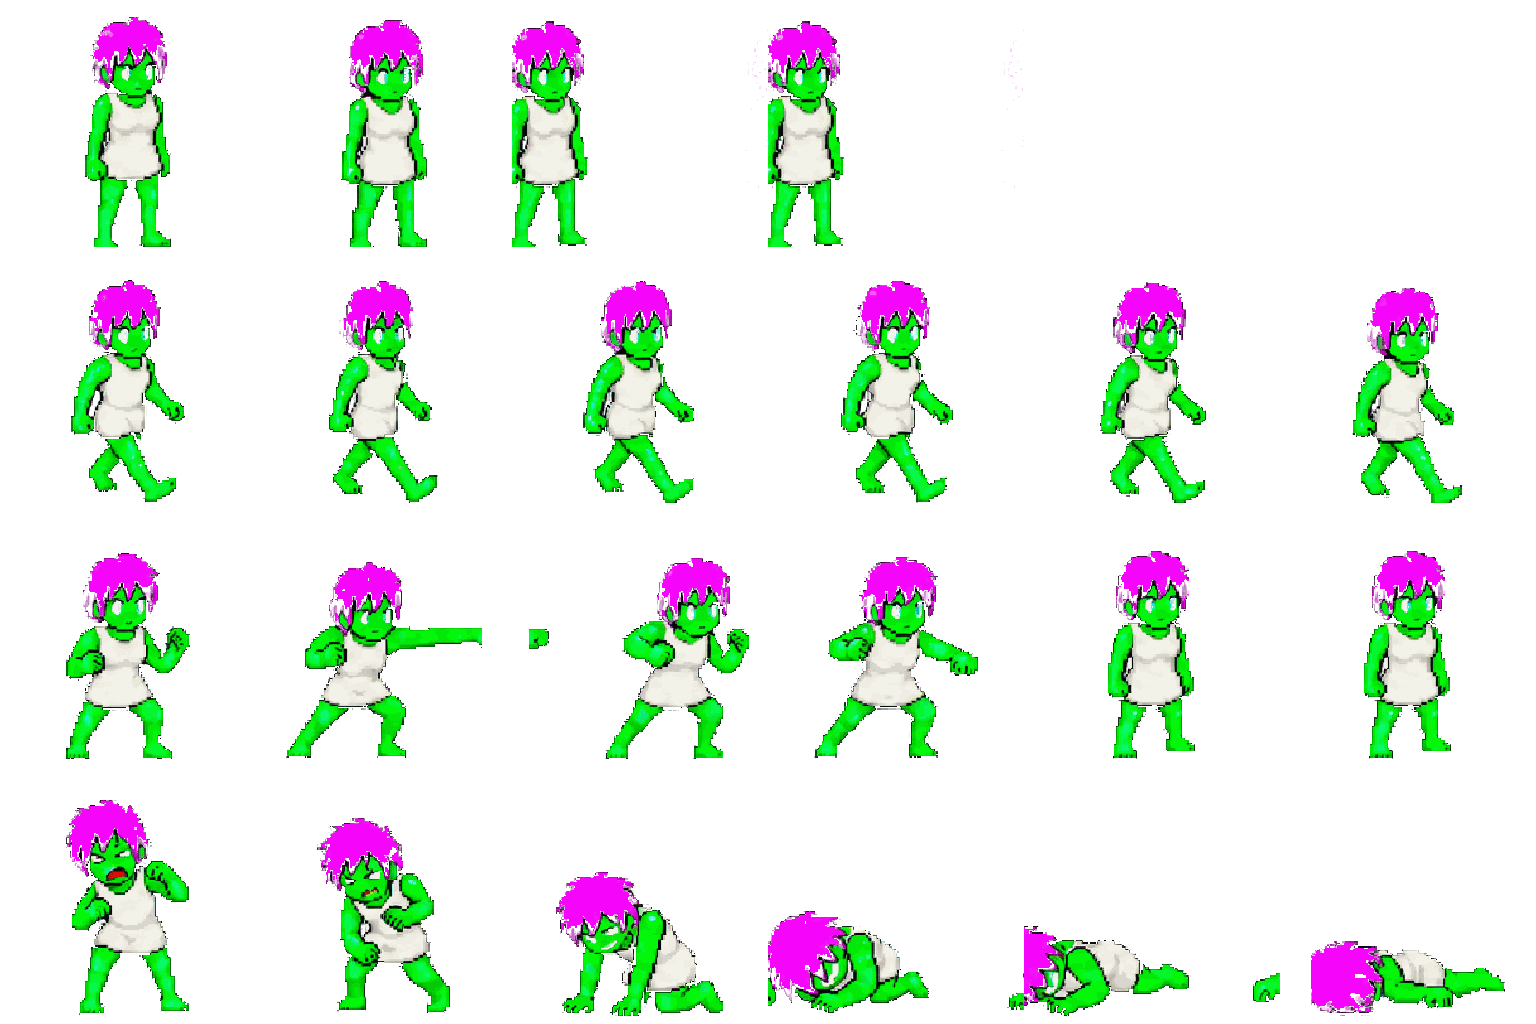
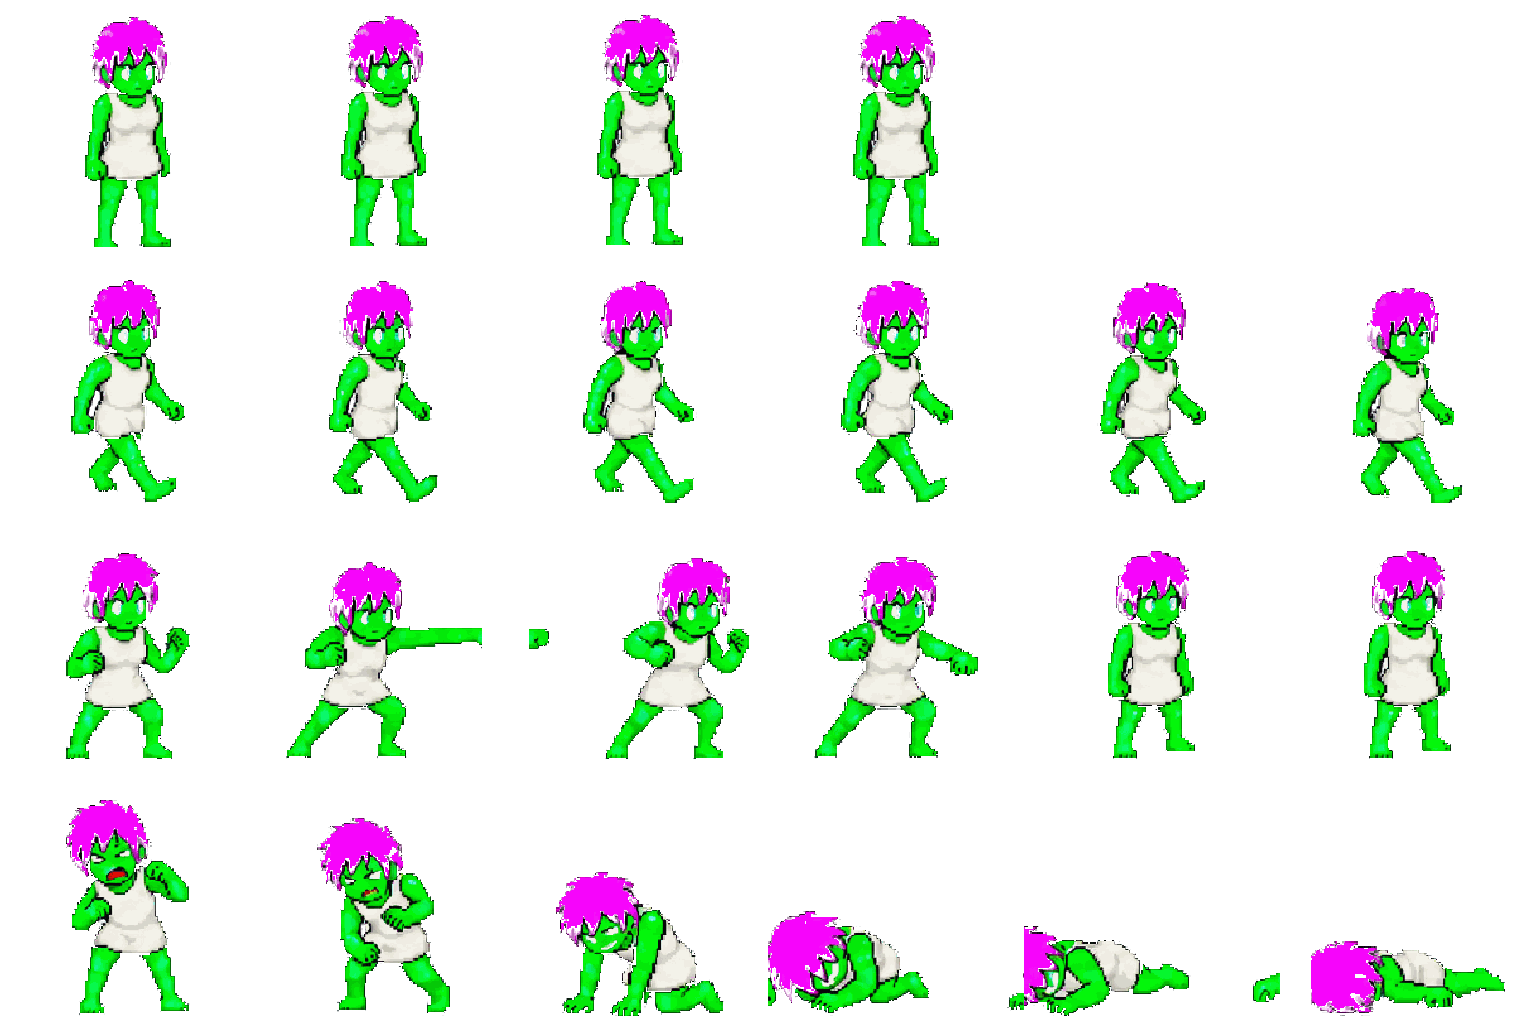
build 364 — both idle animations breathe
The idle row was near-static on both bodies and the male was worse: one drawing
held for three of its four frames. Both now rise and fall 2px, inside the
ground-line tolerance so nobody hovers.

Claude-Session: https://claude.ai/code/session_01Q55X5n8LA6xgNosSpJws7r

Changed region(s): [[0.3125, 0.0, 0.4688, 0.25], [0.5, 0.0, 0.625, 0.25], [0.2188, 0.0, 0.2812, 0.25]]

diff --git a/sw.js b/sw.js
@@ -2,7 +2,7 @@
    Deliberately narrow: it never touches cross-origin requests and never
    touches range requests, because a greedy SW broke a previous project.
    Bump CACHE on every deploy. */
-const CACHE = 'karti-v363';
+const CACHE = 'karti-v364';
 /* ── THE SHELL, NOT THE GAME ─────────────────────────────────────────────────
    This list used to be 205 entries / ~24 MB — every game module and every
    per-game portrait — so a first install (and EVERY version bump) re-fetched

diff --git a/index.html b/index.html
@@ -2449,7 +2449,7 @@ window.KARTI_THEME = (function(){
    over a MessageChannel, and the answer comes from the script iOS actually
    activated — not from the server, not from a constant. Keep BUILD in step
    with CACHE in sw.js (bump both on every deploy). */
-var KARTI_BUILD = 363;
+var KARTI_BUILD = 364;
 window.KARTI_BUILD = KARTI_BUILD;
 window.swVersion = function(){
   return new Promise(function(resolve){
